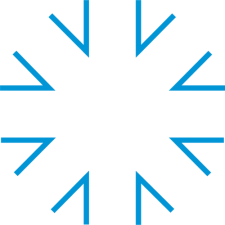
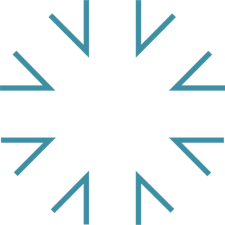
Methodiek: witte icoontjes beperkt tot de 7 stijlvakjes, rest van de site weer hersteld naar de eigen kernwoord-kleur

diff --git a/app/methodiek/page.tsx b/app/methodiek/page.tsx
@@ -4,10 +4,10 @@ import Footer from "@/components/Footer";
 import MensSectie from "@/components/MensSectie";
 
 const lagen = [
-  { nr: "1", naam: "Identity", tekst: "Drijfveren, waarden, overtuigingen — wie iemand werkelijk ís", kleur: "#EE7E06", bg: "rgba(238,126,6,0.12)" },
-  { nr: "2", naam: "Choices", tekst: "Wat iemand wel of niet laat zien in interactie met anderen", kleur: "#7B5EA7", bg: "rgba(123,94,167,0.12)" },
-  { nr: "3", naam: "Behaviour", tekst: "Zichtbaar gedrag, kwaliteiten, competenties in de praktijk", kleur: "#3E8FA3", bg: "rgba(62,143,163,0.12)" },
-  { nr: "4", naam: "Interpretation", tekst: "Hoe anderen jouw gedrag waarnemen en interpreteren", kleur: "#d4ae1a", bg: "rgba(242,193,46,0.1)" },
+  { nr: "1", naam: "Identiteit", tekst: "Drijfveren, waarden, overtuigingen — wie iemand werkelijk ís", kleur: "#EE7E06", bg: "rgba(238,126,6,0.12)" },
+  { nr: "2", naam: "Keuzes", tekst: "Wat iemand wel of niet laat zien in interactie met anderen", kleur: "#7B5EA7", bg: "rgba(123,94,167,0.12)" },
+  { nr: "3", naam: "Gedrag", tekst: "Zichtbaar gedrag, kwaliteiten, competenties in de praktijk", kleur: "#3E8FA3", bg: "rgba(62,143,163,0.12)" },
+  { nr: "4", naam: "Interpretatie", tekst: "Hoe anderen jouw gedrag waarnemen en interpreteren", kleur: "#d4ae1a", bg: "rgba(242,193,46,0.1)" },
   { nr: "5", naam: "Context", tekst: "De omgeving, de cultuur, de situatie die alles kleurt", kleur: "#5aad7e", bg: "rgba(46,125,82,0.12)" },
 ];
 
@@ -38,24 +38,24 @@ const bouwblokken = [
     nr: "03",
     sub: "Transformation Force",
     naam: "Veranderkracht",
-    tekst: "Het vermogen om in beweging te komen én impact te maken. Vier voorwaarden bepalen of verandering lukt: Mission, Self-worth, Safety en Support system. Elk met een score van 0–100.",
+    tekst: "Het vermogen om in beweging te komen én impact te maken. Vier voorwaarden bepalen of verandering lukt. Missie, Eigenwaarde, Veiligheid, en Support Systeem. In totaal met een score van 0–100.",
     items: [
-      "Mission — richting en betekenis",
-      "Self-worth — zelfbeeld en vertrouwen",
-      "Safety — psychologische veiligheid",
-      "Support system — omgeving en steun",
+      "Missie — richting en betekenis",
+      "Eigenwaarde — zelfbeeld en vertrouwen",
+      "Veiligheid — psychologische veiligheid",
+      "Support Systeem — omgeving en steun",
     ],
   },
 ];
 
 const stijlen = [
-  { icoon: "/iconen/pionier.png", naam: "Pionier", kernwoord: "Vernieuwen · Durven · Actie", tekst: "Gaat voorop. Daagt uit. Zegt wat anderen denken maar niet durven te zeggen. Houdt van snelheid en haat stilstand.", bg: "rgba(27,59,111,0.2)", rand: "rgba(27,59,111,0.4)", naamKleur: "#7a9fd4", kwKleur: "#5e7fbf" },
-  { icoon: "/iconen/doener.png", naam: "Doener", kernwoord: "Afronden · Kwaliteit · Praktisch", tekst: "Maakt dingen af. Let op details. Betrouwbaar en precies. Liever goed dan snel — maar ook graag concrete resultaten.", bg: "rgba(139,63,160,0.14)", rand: "rgba(139,63,160,0.3)", naamKleur: "#c98fdb", kwKleur: "#8B3FA0" },
-  { icoon: "/iconen/zorger.png", naam: "Zorger", kernwoord: "Warmte · Invoelend · Passie", tekst: "Voelt aan wat anderen nodig hebben. Loyaal en betrokken. Geeft energie aan mensen — en vraagt er ook om.", bg: "rgba(215,38,61,0.12)", rand: "rgba(215,38,61,0.25)", naamKleur: "#e87085", kwKleur: "#D7263D" },
-  { icoon: "/iconen/verbinder.png", naam: "Verbinder", kernwoord: "Contact · Enthousiasme · Netwerk", tekst: "Brengt mensen samen. Bruist van energie. Lost conflicten op door te verbinden. Houdt van samenwerking en variatie.", bg: "rgba(242,193,46,0.1)", rand: "rgba(242,193,46,0.2)", naamKleur: "#d4c250", kwKleur: "#d4ae1a" },
-  { icoon: "/iconen/strateeg.png", naam: "Strateeg", kernwoord: "Doelgericht · Overzicht · Plan", tekst: "Denkt in systemen. Wil excelleren. Heeft altijd een plan B. Stuurt op resultaat en houdt overzicht waar anderen de weg kwijtraken.", bg: "rgba(62,143,163,0.14)", rand: "rgba(62,143,163,0.3)", naamKleur: "#7ec4d4", kwKleur: "#3E8FA3" },
-  { icoon: "/iconen/beheerder.png", naam: "Beheerder", kernwoord: "Balans · Investeren · Vindingrijk", tekst: "Weegt af. Investeert verstandig — in mensen, middelen en relaties. Creatief in oplossingen, standvastig in waarden.", bg: "rgba(138,138,138,0.14)", rand: "rgba(138,138,138,0.3)", naamKleur: "#b3b3b3", kwKleur: "#8a8a8a" },
-  { icoon: "/iconen/doordenker.png", naam: "Doordenker", kernwoord: "Analyseren · Diepgang · Kennis", tekst: "Onderzoekt voor hij spreekt. Heeft altijd vragen. Houdt van diepte, haat oppervlakkigheid. Zijn inzichten zijn goud — als je er de tijd voor neemt.", bg: "rgba(46,125,82,0.12)", rand: "rgba(46,125,82,0.25)", naamKleur: "#6ac090", kwKleur: "#2E7D52" },
+  { icoon: "/iconen/wit/pionier.png", naam: "Pionier", kernwoord: "Vernieuwen · Durven · Actie", tekst: "Gaat voorop. Daagt uit. Zegt wat anderen denken maar niet durven te zeggen. Houdt van snelheid en haat stilstand.", bg: "rgba(27,59,111,0.2)", rand: "rgba(27,59,111,0.4)", naamKleur: "#7a9fd4", kwKleur: "#5e7fbf" },
+  { icoon: "/iconen/wit/doener.png", naam: "Doener", kernwoord: "Afronden · Kwaliteit · Praktisch", tekst: "Maakt dingen af. Let op details. Betrouwbaar en precies. Liever goed dan snel — maar ook graag concrete resultaten.", bg: "rgba(139,63,160,0.14)", rand: "rgba(139,63,160,0.3)", naamKleur: "#c98fdb", kwKleur: "#8B3FA0" },
+  { icoon: "/iconen/wit/zorger.png", naam: "Zorger", kernwoord: "Warmte · Invoelend · Passie", tekst: "Voelt aan wat anderen nodig hebben. Loyaal en betrokken. Geeft energie aan mensen — en vraagt er ook om.", bg: "rgba(215,38,61,0.12)", rand: "rgba(215,38,61,0.25)", naamKleur: "#e87085", kwKleur: "#D7263D" },
+  { icoon: "/iconen/wit/verbinder.png", naam: "Verbinder", kernwoord: "Contact · Enthousiasme · Netwerk", tekst: "Brengt mensen samen. Bruist van energie. Lost conflicten op door te verbinden. Houdt van samenwerking en variatie.", bg: "rgba(242,193,46,0.1)", rand: "rgba(242,193,46,0.2)", naamKleur: "#d4c250", kwKleur: "#d4ae1a" },
+  { icoon: "/iconen/wit/strateeg.png", naam: "Strateeg", kernwoord: "Doelgericht · Overzicht · Plan", tekst: "Denkt in systemen. Wil excelleren. Heeft altijd een plan B. Stuurt op resultaat en houdt overzicht waar anderen de weg kwijtraken.", bg: "rgba(62,143,163,0.14)", rand: "rgba(62,143,163,0.3)", naamKleur: "#7ec4d4", kwKleur: "#3E8FA3" },
+  { icoon: "/iconen/wit/beheerder.png", naam: "Beheerder", kernwoord: "Balans · Investeren · Vindingrijk", tekst: "Weegt af. Investeert verstandig — in mensen, middelen en relaties. Creatief in oplossingen, standvastig in waarden.", bg: "rgba(138,138,138,0.14)", rand: "rgba(138,138,138,0.3)", naamKleur: "#b3b3b3", kwKleur: "#8a8a8a" },
+  { icoon: "/iconen/wit/doordenker.png", naam: "Doordenker", kernwoord: "Analyseren · Diepgang · Kennis", tekst: "Onderzoekt voor hij spreekt. Heeft altijd vragen. Houdt van diepte, haat oppervlakkigheid. Zijn inzichten zijn goud — als je er de tijd voor neemt.", bg: "rgba(46,125,82,0.12)", rand: "rgba(46,125,82,0.25)", naamKleur: "#6ac090", kwKleur: "#2E7D52" },
 ];
 
 const scanOnderdelen = [
@@ -278,22 +278,29 @@ export default function MethodiekPagina() {
                     Factor 8 — De 8e dimensie
                   </div>
                   <div className="font-serif text-xl text-white mb-2">
-                    Veranderkracht
+                    Verandervoorwaarden
                   </div>
                   <p className="text-sm text-white/50 leading-[1.65] max-w-[640px]">
                     Naast de zeven stijlen meet 7LIFE ook hoe iemand
                     omgaat met verandering — het vermogen om in beweging
-                    te komen en impact te maken. Dit is geen aparte stijl,
-                    maar een eigen dimensie die aangeeft hoe groot iemands
-                    verandercapaciteit is en wat daarvoor nodig is. Bij
-                    kinderen heet dit de Ontdekker.
+                    te komen en impact te maken. Onderdeel van
+                    veranderkracht is Factor 8, een eigen dimensie die
+                    aangeeft hoe groot de impact is van de context van de
+                    kandidaat op het omgaan met verandering. We noemen
+                    dat de Verandervoorwaarden.
                   </p>
                 </div>
-                <div className="bg-white/[0.06] rounded-xl px-6 py-5 text-center min-w-[180px]">
-                  <div className="font-serif text-5xl font-semibold text-white/30 leading-none">
+                <div
+                  className="rounded-xl px-6 py-5 text-center min-w-[180px]"
+                  style={{
+                    background: "rgba(238,126,6,0.14)",
+                    border: "1px solid rgba(238,126,6,0.3)",
+                  }}
+                >
+                  <div className="font-serif text-5xl font-semibold text-white leading-none">
                     8
                   </div>
-                  <div className="text-xs text-white/35 mt-1.5">
+                  <div className="text-xs text-oranje mt-1.5 font-medium">
                     dimensies
                     <br />
                     één profiel

diff --git a/components/MensSectie.tsx b/components/MensSectie.tsx
@@ -99,15 +99,6 @@ export default function MensSectie() {
             </div>
           </div>
         </div>
-
-        <div className="text-center mt-11">
-          <a
-            href="#bouwblokken"
-            className="text-oranje text-sm font-medium no-underline hover:underline"
-          >
-            Ontdek de 7LIFE-methodiek →
-          </a>
-        </div>
       </div>
     </section>
   );
